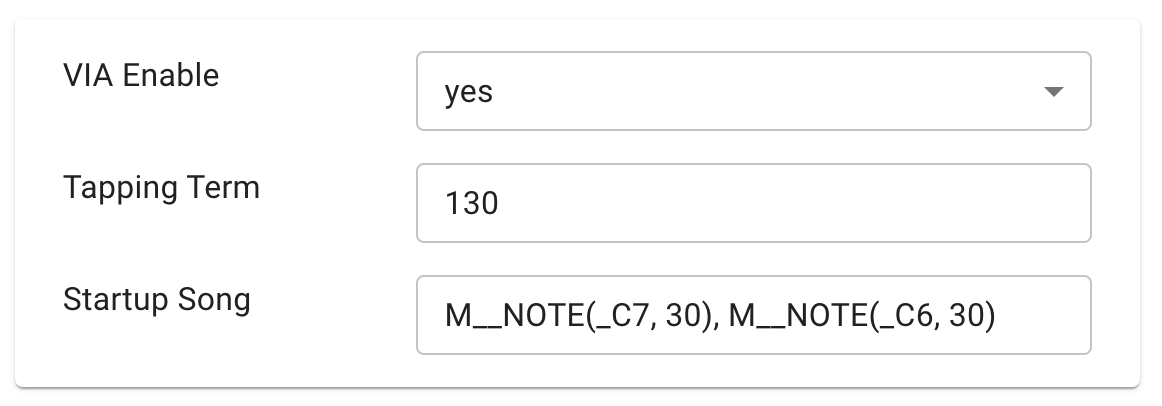
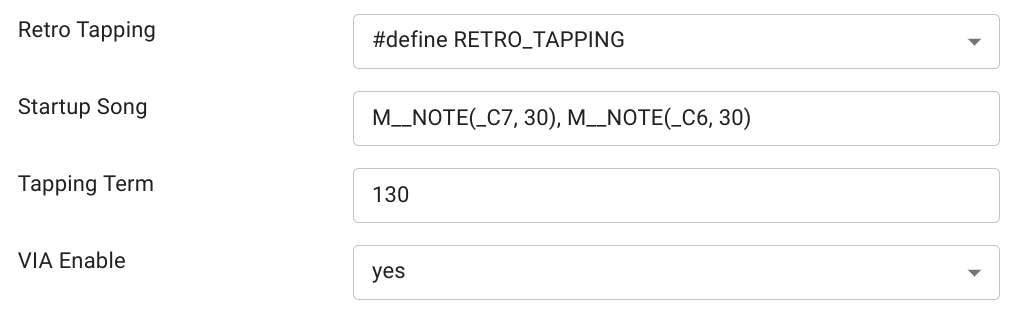
Support a new type `toggle` in the <remap> tag.

diff --git a/src/services/build/FirmwareCodeParser.test.ts b/src/services/build/FirmwareCodeParser.test.ts
@@ -11,6 +11,7 @@ describe('FirmwareCodeParser', () => {
         <remap name="foo" type="select" default="baz" options="bar,baz" />
         <remap name="bar" type="text" default="john" />
         <remap name="baz" type="number" default="20" />
+        <remap name="john" type="toggle" default="doe" />
       `;
       const parameters: IBuildableFirmwareCodeParameter[] =
         extractBuildableFirmwareCodeParameters(input);
@@ -24,6 +25,7 @@ describe('FirmwareCodeParser', () => {
         baz
         john
         20
+        doe
       `);
     });
 
@@ -32,6 +34,7 @@ describe('FirmwareCodeParser', () => {
         <remap name="foo" type="select" default="baz" />
         <remap name="bar" type="text" default="john" />
         <remap name="baz" type="number" default="20" />
+        <remap name="john" type="toggle" default="doe" />
       `;
       const parameters: IBuildableFirmwareCodeParameter[] =
         extractBuildableFirmwareCodeParameters(input);
@@ -45,6 +48,7 @@ describe('FirmwareCodeParser', () => {
         <remap name="foo" type="select" default="baz" />
         john
         20
+        doe
       `);
     });
   });
@@ -55,6 +59,7 @@ describe('FirmwareCodeParser', () => {
         <remap name="foo" type="select" default="baz" options="bar,baz" />
         <remap name="bar" type="text" default="john" />
         <remap name="baz" type="number" default="20" />
+        <remap name="john" type="toggle" default="doe" />
       `;
 
       const parameters = extractBuildableFirmwareCodeParameters(source);
@@ -84,6 +89,14 @@ describe('FirmwareCodeParser', () => {
           startPosition: 140,
           endPosition: 187,
         },
+        {
+          name: 'john',
+          type: 'toggle',
+          options: [],
+          default: 'doe',
+          startPosition: 196,
+          endPosition: 245,
+        },
       ]);
     });
 
@@ -92,6 +105,7 @@ describe('FirmwareCodeParser', () => {
         <remap name="foo" type="select" default="baz" />
         <remap name="bar" type="text" default="john" />
         <remap name="baz" type="number" default="20" />
+        <remap name="john" type="toggle" default="doe" />
       `;
 
       const parameters = extractBuildableFirmwareCodeParameters(source);
@@ -113,6 +127,14 @@ describe('FirmwareCodeParser', () => {
           startPosition: 122,
           endPosition: 169,
         },
+        {
+          name: 'john',
+          type: 'toggle',
+          options: [],
+          default: 'doe',
+          startPosition: 178,
+          endPosition: 227,
+        },
       ]);
     });
 
@@ -121,6 +143,7 @@ describe('FirmwareCodeParser', () => {
         <remap name="foo" type="select" options="bar,baz" default="baz" />
         <remap name="bar" type="unknown" default="john" />
         <remap name="baz" type="number" default="20" />
+        <remap name="john" type="toggle" default="doe" />
       `;
 
       const parameters = extractBuildableFirmwareCodeParameters(source);
@@ -142,6 +165,14 @@ describe('FirmwareCodeParser', () => {
           startPosition: 143,
           endPosition: 190,
         },
+        {
+          name: 'john',
+          type: 'toggle',
+          options: [],
+          default: 'doe',
+          startPosition: 199,
+          endPosition: 248,
+        },
       ]);
     });
 
@@ -150,6 +181,7 @@ describe('FirmwareCodeParser', () => {
         <remap name="foo" type="select" default="baz" options="bar,baz" comment="comment1" />
         <remap name="bar" type="text" default="john" comment="comment2" />
         <remap name="baz" type="number" default="20" comment="comment3 foobar" />
+        <remap name="john" type="toggle" default="doe" comment="comment4 baz" />
       `;
 
       const parameters = extractBuildableFirmwareCodeParameters(source);
@@ -181,6 +213,15 @@ describe('FirmwareCodeParser', () => {
           comment: 'comment3 foobar',
           startPosition: 178,
           endPosition: 251,
+        },
+        {
+          name: 'john',
+          type: 'toggle',
+          options: [],
+          default: 'doe',
+          comment: 'comment4 baz',
+          startPosition: 260,
+          endPosition: 332,
         },
       ]);
     });

diff --git a/src/components/catalog/keyboard/build/BuildParametersDialog.tsx b/src/components/catalog/keyboard/build/BuildParametersDialog.tsx
@@ -526,7 +526,38 @@ function ParameterEditors(props: ParameterEditorProps) {
                     ))}
                   </Select>
                   {parameter.definition.comment && (
-                    <Typography variant="caption">
+                    <Typography
+                      variant="caption"
+                      sx={{ ml: '14px', color: 'rgb(0, 0, 0, 0.6)' }}
+                    >
+                      {parameter.definition.comment}
+                    </Typography>
+                  )}
+                </div>
+              ) : parameter.definition.type === 'toggle' ? (
+                <div>
+                  <Select
+                    fullWidth
+                    size="small"
+                    value={parameter.value}
+                    onChange={(event) => {
+                      props.onChangeParameterValue(
+                        props.selectedFirmwareFile,
+                        parameter.definition,
+                        event.target.value
+                      );
+                    }}
+                  >
+                    <MenuItem value={parameter.definition.default}>
+                      {parameter.definition.default}
+                    </MenuItem>
+                    <MenuItem value="">(none)</MenuItem>
+                  </Select>
+                  {parameter.definition.comment && (
+                    <Typography
+                      variant="caption"
+                      sx={{ ml: '14px', color: 'rgb(0, 0, 0, 0.6)' }}
+                    >
                       {parameter.definition.comment}
                     </Typography>
                   )}

diff --git a/src/components/documents/build/Build.tsx b/src/components/documents/build/Build.tsx
@@ -114,6 +114,9 @@ export default function Build() {
                 <li>select - The parameter value is one of options.</li>
                 <li>number - The parameter value is a number.</li>
                 <li>text - The parameter value is a string.</li>
+                <li>
+                  toggle - The parameter value is the default value or none.
+                </li>
               </ul>
             </li>
             <li>default - The default value of the parameter.</li>
@@ -148,6 +151,8 @@ export default function Build() {
             type=&quot;text&quot; default=&quot;M__NOTE(_C7, 30), M__NOTE(_C6,
             30)&quot; /&gt;)
             <br />
+            &lt;remap name=&quot;Retro Tapping&quot; type=&quot;toggle&quot;
+            default=&quot;#define RETRO_TAPPING&quot; /&gt;
           </Typography>
         </Paper>
         <Typography variant="body1" gutterBottom={true}>

diff --git a/src/services/build/FirmwareCodeParser.ts b/src/services/build/FirmwareCodeParser.ts
@@ -15,7 +15,7 @@ const extractAttribute = (
 const isValidType = (
   type: string
 ): type is IBuildableFirmwareCodeParameterType => {
-  return ['select', 'text', 'number'].includes(type);
+  return ['select', 'text', 'number', 'toggle'].includes(type);
 };
 
 export const replaceBuildableFirmwareCodeWithParameterDefaultValues = (
@@ -64,7 +64,7 @@ export const extractBuildableFirmwareCodeParameters = (
 
     const parameter: IBuildableFirmwareCodeParameter = {
       name,
-      type: type as 'select' | 'text' | 'number',
+      type: type as 'select' | 'text' | 'number' | 'toggle',
       default: defaultValue,
       comment,
       options: [],

diff --git a/src/store/state.ts b/src/store/state.ts
@@ -205,7 +205,11 @@ const KeySwitchOperations = {
 export type IKeySwitchOperation =
   typeof KeySwitchOperations[keyof typeof KeySwitchOperations];
 
-export type IBuildableFirmwareCodeParameterType = 'select' | 'text' | 'number';
+export type IBuildableFirmwareCodeParameterType =
+  | 'select'
+  | 'text'
+  | 'number'
+  | 'toggle';
 
 export type IBuildableFirmwareCodeParameter = {
   name: string;
